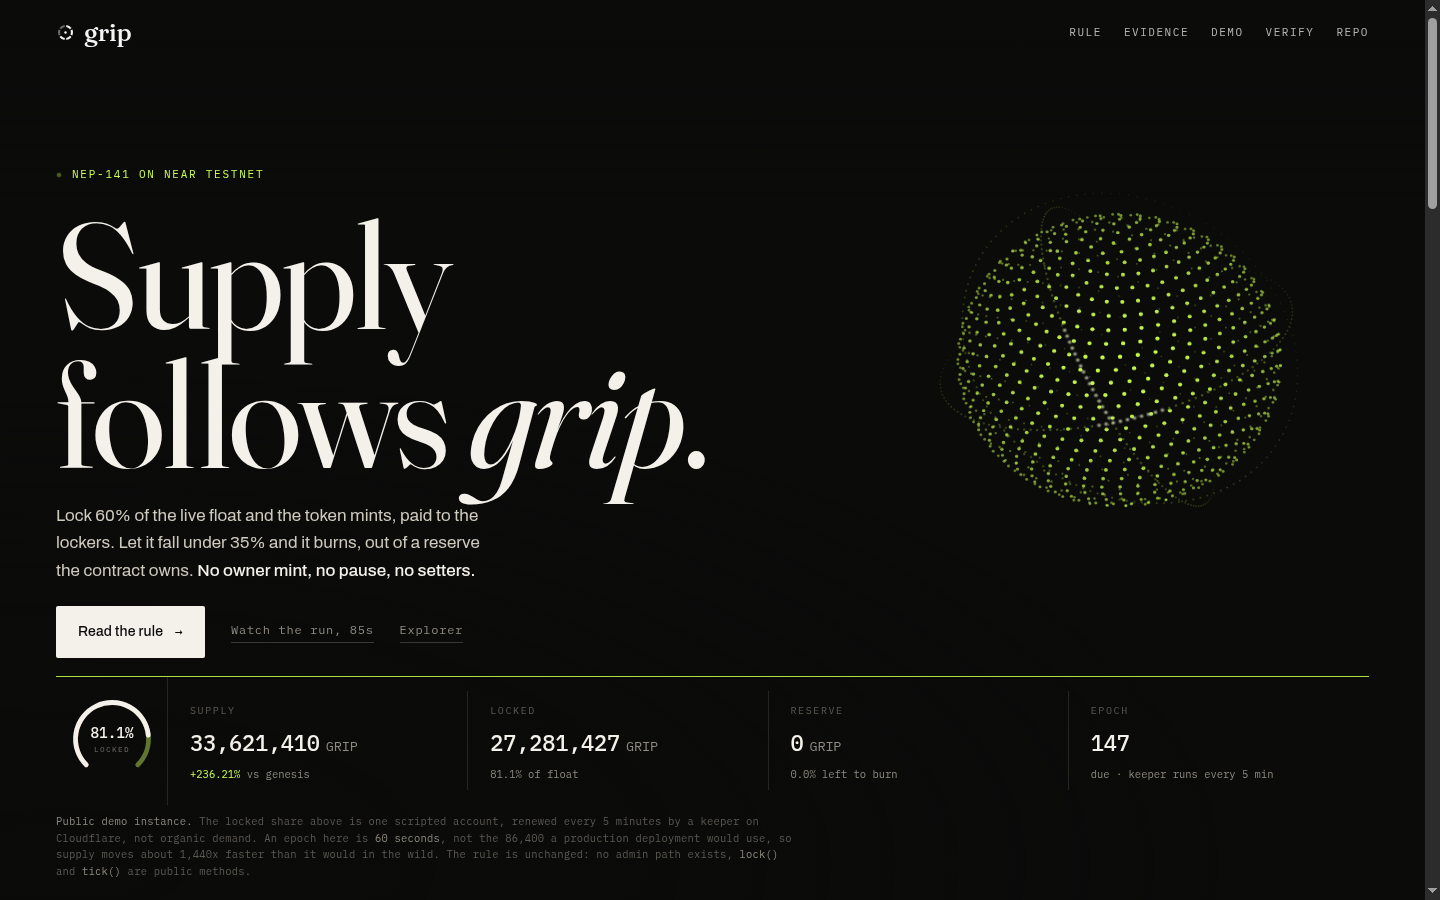
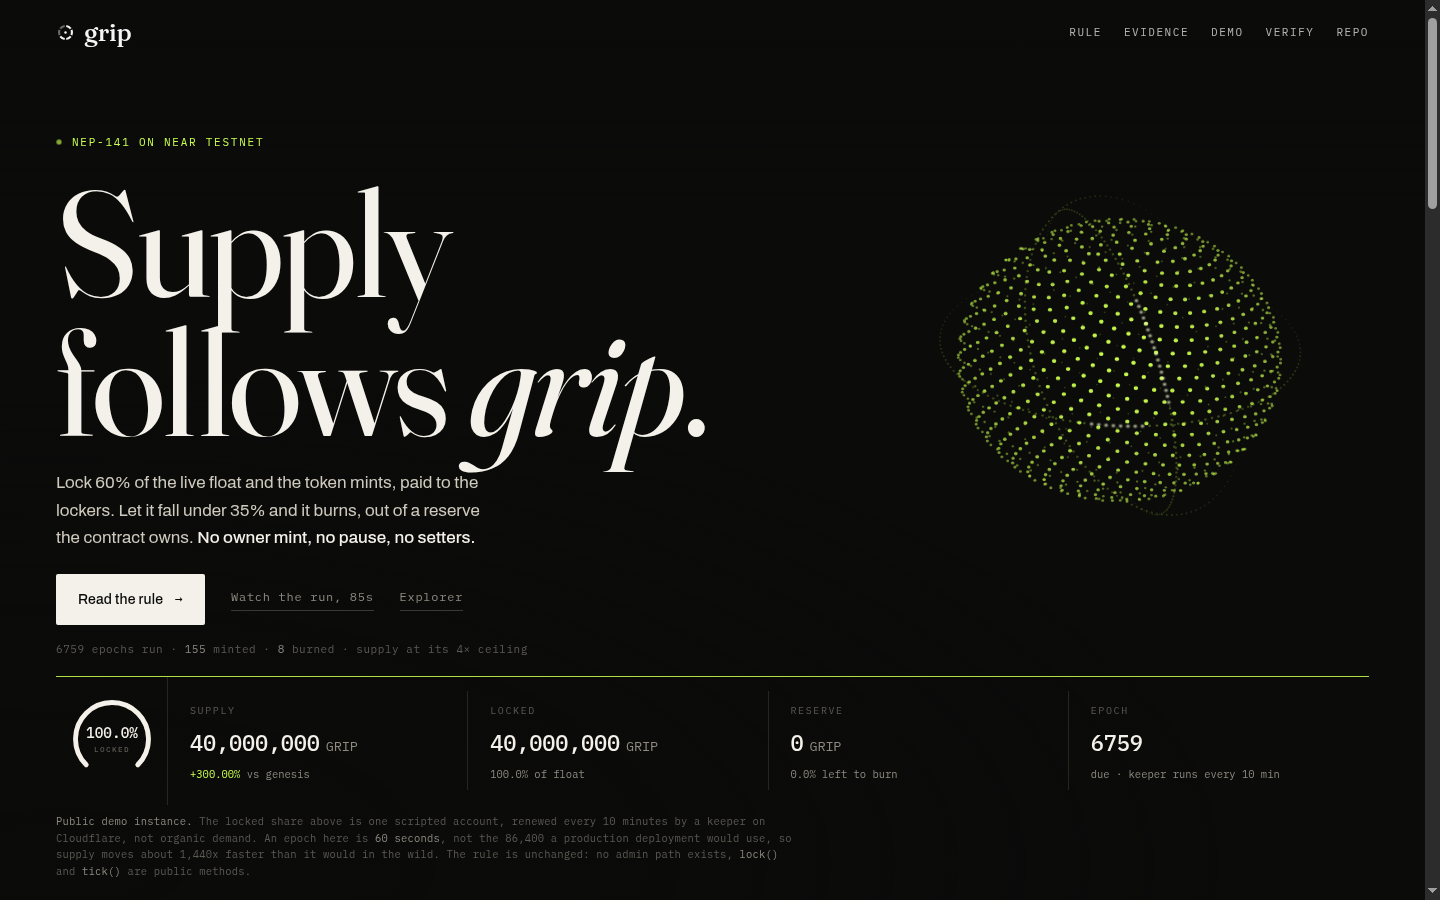
page: state the life of the thing, so a flat tail reads as finished
The mechanic ran to completion: supply sits exactly on its 4x ceiling and the
reserve is spent, so every recent epoch is 'capped' and the supply chart cannot
move. A judge opening that sees a flat line and has to infer why.

One line under the CTAs now says it with contract fields: "6759 epochs run, 155
minted, 8 burned, supply at its 4x ceiling". The chart caption says the same when
the tail is capped. Nothing is dressed up: the ceiling is the story.

Also fixed: the page still said the keeper runs every 5 minutes. It runs every 10,
since the gas measurement.

diff --git a/docs/index.html b/docs/index.html
@@ -152,6 +152,11 @@
   }
   .readout .cell:last-child{border-right:0}
   .readout .cell:not(.dial){padding-left:22px}
+  .life{
+    margin-top:16px;font-family:var(--mono);font-size:11px;letter-spacing:.05em;
+    color:var(--faint);line-height:1.5;
+  }
+  .life b{color:var(--muted);font-weight:400}
   .note{
     padding:10px 0 12px;max-width:118ch;
     font-family:var(--mono);font-size:10.5px;line-height:1.6;letter-spacing:.02em;color:var(--faint);
@@ -374,6 +379,7 @@
         <a class="txt" href="demo.mp4">Watch the run, 85s</a>
         <a class="txt" id="explorerTop" href="#" target="_blank" rel="noreferrer">Explorer</a>
       </div>
+      <p class="life" id="life">&nbsp;</p>
       </div>
 
       <div class="epochbar" aria-hidden="true"><i id="epochFill"></i></div>
@@ -410,7 +416,7 @@
         </div>
       </div>
       <p class="note">
-        <b>Public demo instance.</b> The locked share above is one scripted account, renewed every 5
+        <b>Public demo instance.</b> The locked share above is one scripted account, renewed every 10
         minutes by a keeper on Cloudflare, not organic demand. An epoch here is <b>60 seconds</b>, not the 86,400 a
         production deployment would use, so supply moves about 1,440x faster than it would in the wild.
         The rule is unchanged: no admin path exists, <b>lock()</b> and <b>tick()</b> are public methods.
@@ -949,12 +955,12 @@
     }
     // an epoch that is overdue is not a broken page: tick() is public, and this says so instead of
     // pretending a countdown is still running.
-    // the keeper runs every 5 minutes, so between runs an epoch can be overdue. Saying so beats a
+    // the keeper runs every 10 minutes, so between runs an epoch can be overdue. Saying so beats a
     // countdown that sits at zero and looks stalled.
     const sub = $('sEpoch');
     if (sub) sub.textContent = left > 0
       ? 'next in ' + Math.ceil(left / 1000) + 's'
-      : 'due · keeper runs every 5 min';
+      : 'due · keeper runs every 10 min';
   };
 
   const render = (s) => {
@@ -964,6 +970,13 @@
     const float = Math.max(1, supply - reserve);
     gripTarget = s.locked_share_bps / 10000;
     if (!gripInit) { gripNow = gripTarget; gripInit = true; }
+
+    const life = $('life');
+    if (life) {
+      const atCeiling = supply >= dec(s.max_supply);
+      life.innerHTML = s.epoch + ' epochs run · <b>' + s.mint_epochs + '</b> minted · <b>' +
+        s.burn_epochs + '</b> burned' + (atCeiling ? ' · supply at its 4&times; ceiling' : '');
+    }
 
     const flash = (id, changed) => {
       if (!changed) return;
@@ -995,7 +1008,11 @@
 
     const n = s.history.length;
     $('chartMeta').textContent = n ? n + ' epochs, ' + s.mint_epochs + ' mint, ' + s.burn_epochs + ' burn' : 'no epochs yet';
-    $('figNote').textContent = n ? 'last epoch ' + s.history[n - 1].epoch : 'genesis 10,000,000';
+    const tail = s.history.slice(-6);
+    const flatTail = n > 5 && tail.every((h) => /^(capped|hold)/.test(h.action || ''));
+    $('figNote').textContent = !n ? 'genesis 10,000,000'
+      : flatTail ? 'capped or hold for the last ' + n + ' epochs: the ceiling is doing its job'
+      : 'last epoch ' + s.history[n - 1].epoch;
 
     const rows = s.history.slice().reverse().slice(0, 9).map((h) => {
       const parts = (h.action || '').split(' ');
